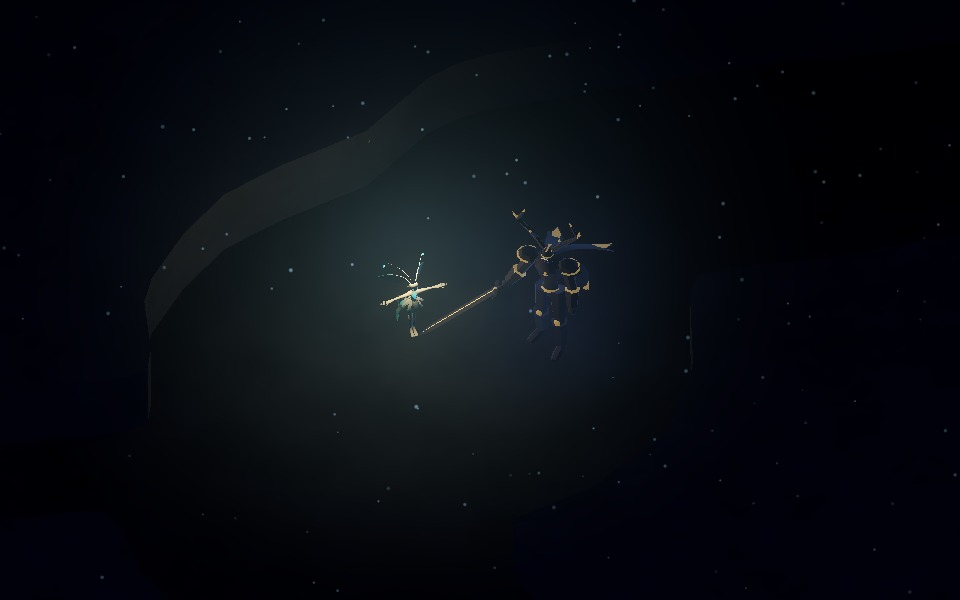
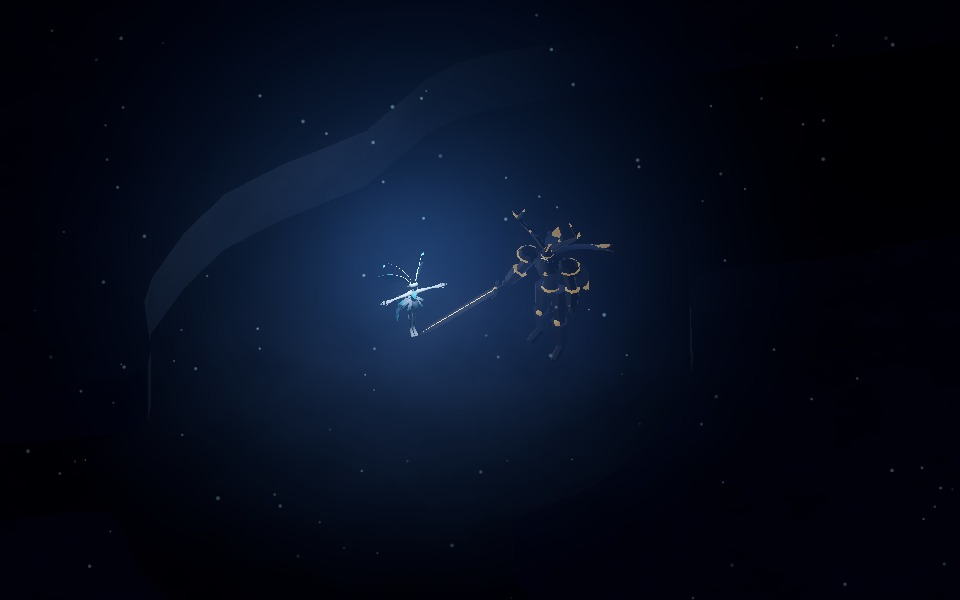
Final Echo: size keys, cool white-blue Echo light, budget 16,000
Key 9 in the character test tries the final Echo at 1 / 1.15 / 1.3
(CharacterModel.model_scale: the look only, the collision stays). The
Echo's own light is cool white-blue (echo.tscn), so her white body no
longer reads cream; the Guardian's light is unchanged. check_model.py:
budget 16,000. Pictures per size at the game distance, dark and pulse.

Changed region(s): [[0.1875, 0.15, 0.625, 0.75]]

diff --git a/tools/blender/check_model.py b/tools/blender/check_model.py
@@ -30,7 +30,7 @@ import bpy
 DEFAULT_COLLECTION = "Echo"
 # Triangles for the whole character (the hand-made Echo, Subdivision at its
 # viewport level as exported).
-DEFAULT_BUDGET = 12000
+DEFAULT_BUDGET = 16000
 # Object types whose evaluated geometry is exported as a mesh.
 GEOMETRY_TYPES = ("MESH", "CURVE")
 # Bigger .blend files should leave git (see art/echo/README.md).

diff --git a/CLAUDE.md b/CLAUDE.md
@@ -217,7 +217,10 @@ the 2D game until a phase replaces it (this file is updated at the end of every 
   in `tools/character_test.tscn` (key E; `-- pictures <folder> final`): `CharacterModel`
   `use_vertex_colors` (the shared shader multiplies the vertex colours) and
   `glow_materials` (material name -> glow energy, for a glowing part whose material has
-  no emission: the Blender Glow material has none; its colour is the glow). `art/` has a
+  no emission: the Blender Glow material has none; its colour is the glow); key 9 tries
+  her size (`final_scales` 1 / 1.15 / 1.3: `CharacterModel.model_scale`, the look only,
+  the collision stays). The Echo's own light is cool white-blue (`echo.tscn`
+  `PlayerLight.light_color_tint`), so her white body does not turn cream. `art/` has a
   `.gdignore`; `*.blend1` backups are ignored; the .blend leaves git above 50 MB.
 - **Level play-test**: `tools/level_test.tscn` (F6): the real Ocean levels (exports
   `stage_index`, `level_index`, `challenge_mode`, `forced_seed`) with the HUD's player

diff --git a/art/echo/README.md b/art/echo/README.md
@@ -42,7 +42,7 @@ Save often (**Ctrl + S**). Blender also writes `echo_model.blend1` backups: git 
 blender --background art/echo/echo_model.blend --python tools/blender/check_model.py
 ```
 It prints, for each mesh and bevelled curve in the Echo collection (after modifiers,
-as exported): triangles (the total against a budget of 12,000), flipped normals, parts that are inside out, non-manifold edges (3+ faces
+as exported): triangles (the total against a budget of 16,000), flipped normals, parts that are inside out, non-manifold edges (3+ faces
 on one edge = a problem; open edges = a warning, fine on thin fins), loose vertices and
 edges, unapplied scale / rotation (fix with **Ctrl + A > All Transforms**), the height,
 and the file size. It ends with `CHECK: n problem(s), m warning(s)`. It only reports:
